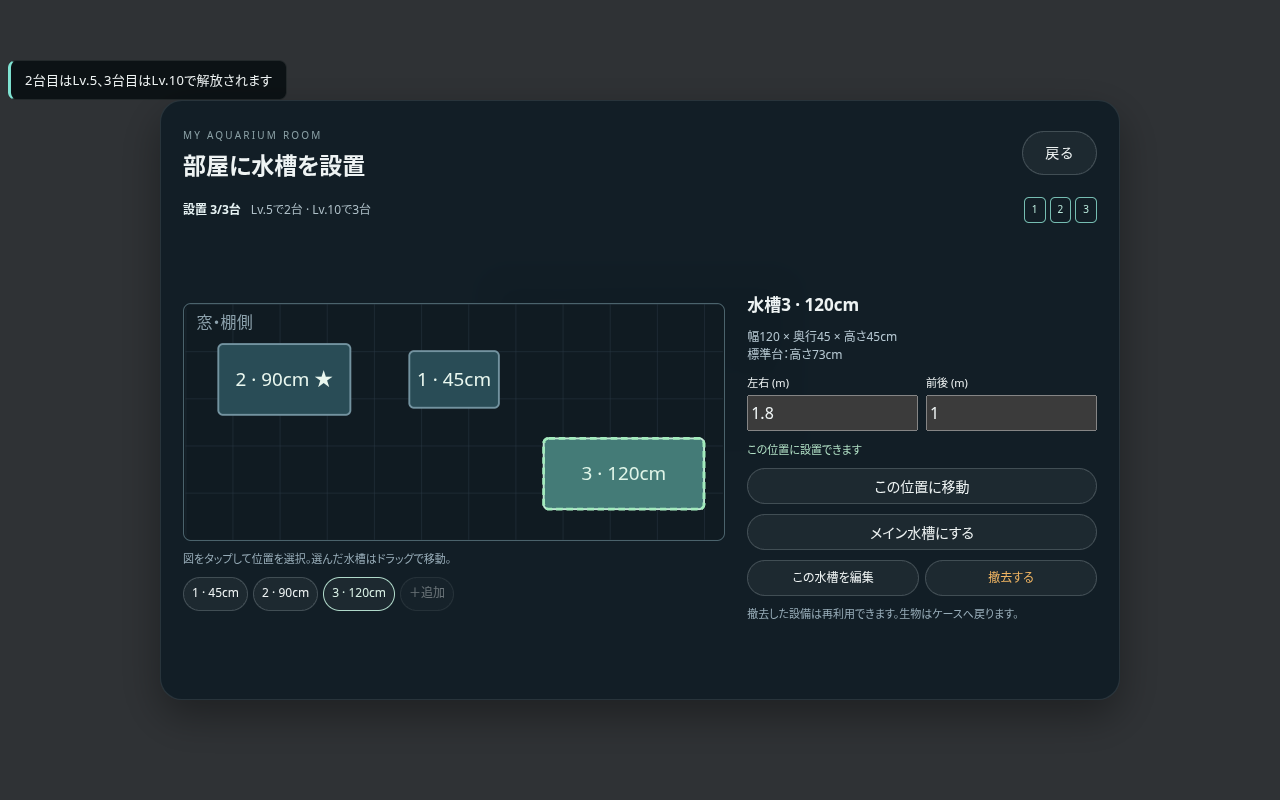
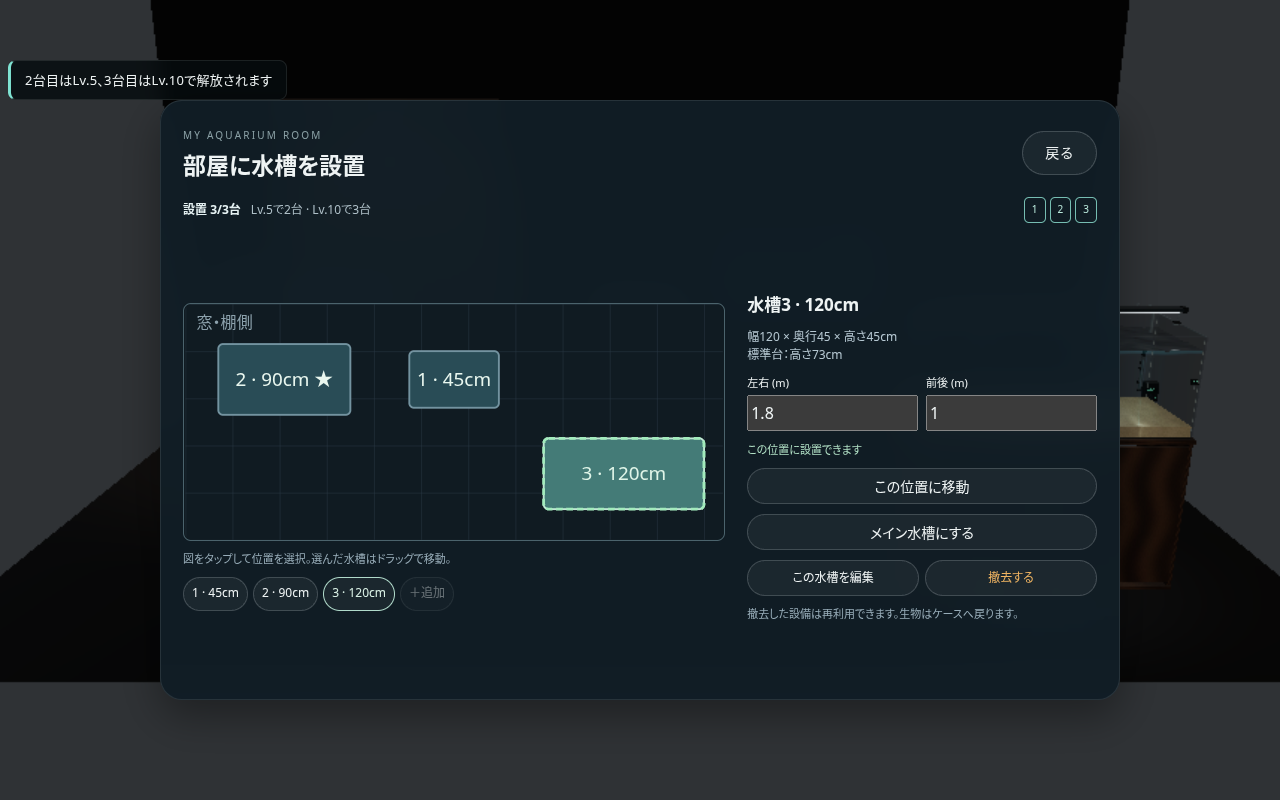
Verify room dragging and compact aquarium editing on mobile

diff --git a/src/ui/tank/room.css b/src/ui/tank/room.css
@@ -48,9 +48,10 @@
 .touch-device .tank-switcher button { width:32px; height:32px; font-size:14px; }
 .touch-device .editor-switcher button { width:26px; height:28px; font-size:12px; }
 .touch-device .editor-switcher > span { font-size:10px; }
-.touch-device .tank-room-controls .btn { font-size:11px; padding:5px 8px; min-height:30px; }
+.touch-device .tank-room-controls { height:30px; min-height:30px; margin-bottom:4px; }
+.touch-device .tank-room-controls .btn { height:30px; font-size:11px; padding:5px 8px; min-height:30px; }
 @media (orientation:portrait) {
-  .touch-device .tank-editor-panel { height:clamp(355px, calc(46dvh + 35px), 455px); }
+  .touch-device .tank-edit .tank-editor-panel:not(.sheet-collapsed) { height:clamp(355px, calc(46dvh + 35px), 455px); }
 }
 @media (max-width:700px) and (orientation:portrait) {
   .room-placement { inset:8px; padding:12px; max-height:650px; gap:8px; }
@@ -86,4 +87,13 @@
   .room-position label { gap:2px; font-size:10px; }.room-position input { min-height:27px; font-size:11px; padding:2px 6px; }
   .room-form .btn { height:28px; min-height:28px; font-size:11px; padding:3px 5px; }.room-validity { font-size:9px; min-height:12px; }
   .room-map-hint,.room-removal-note { font-size:9px; }.room-tank-list button { height:27px; min-height:27px; font-size:10px; padding:3px 5px; }
+}
+@media (orientation:landscape) and (max-height:400px) {
+  .touch-device .tank-editor-panel .equipment-back { height:28px; min-height:28px; }
+  .touch-device .tank-editor-panel .equipment-tabs { margin:2px 0; }
+  .touch-device .tank-editor-panel .equipment-choice { height:58px; min-height:58px; padding:4px; gap:1px; font-size:9px; line-height:1.15; }
+  .touch-device .tank-editor-panel .equipment-choice .equipment-swatch { width:20px; height:16px; flex-basis:16px; }
+  .touch-device .tank-editor-panel .equipment-choice small { font-size:8px; margin:1px 0; }
+  .touch-device .tank-editor-panel .equipment-actions { margin:2px 0; padding:2px 0; }
+  .touch-device .tank-editor-panel .equipment-actions button { height:32px; min-height:32px; }
 }

diff --git a/src/ui/tank/RoomPlacement.tsx b/src/ui/tank/RoomPlacement.tsx
@@ -21,7 +21,7 @@ export function RoomPlacement({ app }: { app: App }) {
     return [Math.round((point.x / 100 + ROOM_LIMITS.minX) * 20) / 20, Math.round((point.y / 100 + ROOM_LIMITS.minZ) * 20) / 20];
   };
   const dimensions = TANK_DIMENSIONS[tank?.size ?? size], ghost = mapPoint(position), footprint = tankFootprint(tank?.size ?? size);
-  const dragPosition = (x: number, y: number): [number, number] => { const p = fromPointer(x, y); return [p[0] - dragOffset.current[0], p[1] - dragOffset.current[1]]; };
+  const dragPosition = (x: number, y: number): [number, number] => { const p = fromPointer(x, y); return [Math.round((p[0] - dragOffset.current[0]) * 20) / 20, Math.round((p[1] - dragOffset.current[1]) * 20) / 20]; };
   return <section class="room-placement glass" aria-label="部屋に水槽を設置">
     <header class="room-heading"><div><span class="eyebrow">MY AQUARIUM ROOM</span><h2>部屋に水槽を設置</h2></div><button class="btn" disabled={busy} onClick={() => app.closeRoomPlacement()}>戻る</button></header>
     <div class="room-capacity"><strong>設置 {room.tanks.length}/{limit}台</strong><span>Lv.5で2台 · Lv.10で3台</span><span class="room-slots">{ROOM_SLOT_LEVELS.map((lv, i) => <span class={app.encyclopedia.level >= lv ? 'unlocked' : ''} key={lv}>{i + 1}{app.encyclopedia.level < lv ? ` 🔒Lv.${lv}` : ''}</span>)}</span></div>

diff --git a/src/app/RoomTanks.ts b/src/app/RoomTanks.ts
@@ -1,4 +1,4 @@
-import { BoxGeometry, DoubleSide, Group, Light, Mesh, MeshStandardMaterial, PlaneGeometry, Vector3, type Camera, type Material } from 'three';
+import { BoxGeometry, DoubleSide, Group, Light, LOD, Mesh, MeshStandardMaterial, PlaneGeometry, Vector3, type Camera, type Material } from 'three';
 import { AquariumEquipment, TANK_DIMENSIONS, type RoomTank } from '../aquarium';
 import { TANK_OFFSET_Y, SAND_H } from './TankScene';
 import { buildTankItem } from './TankLayout';
@@ -50,7 +50,7 @@ export class RoomTanks extends Group {
       }
     }
   }
-  updateLOD(camera: Camera): void { this.rigs.forEach(r => { r.tank.updateLOD(camera); r.stand.updateLOD(camera); for (const d of r.devices.values()) d.updateLOD(camera); }); }
+  updateLOD(camera: Camera): void { this.rigs.forEach(r => r.traverse(o => { if (o instanceof LOD) o.update(camera); })); }
   private clearTanks(): void {
     ++this.generation; this.drivers.forEach(d => d.dispose()); this.drivers = [];
     this.rigs.forEach(r => r.dispose()); this.rigs = [];

diff --git a/src/app/App.ts b/src/app/App.ts
@@ -1718,6 +1718,7 @@ export class App {
     this.camera.aspect = this.renderer.aspect;
     this.camera.updateProjectionMatrix();
     this.tank?.setAspect(this.renderer.aspect);
+    if (this.mode === 'roomPlacement') this.tank.frameRoom();
     this.shop?.setAspect(this.renderer.aspect);
   }
 

diff --git a/docs/aquarium-room/README.md b/docs/aquarium-room/README.md
@@ -12,7 +12,7 @@
 - Lv.1〜4：1台。Lv.5〜9：2台。Lv.10以上：3台。
 - 各サイズの標準水槽・木製台は初期設備として使用可能。色違いの水槽・台は既存の設備ガチャに追加しました。90／120cmの台は中央補強を持ちます。
 - 各水槽は生物・底床・飾り・設備・位置を個別に保存します。生物の実寸は水槽のサイズ変更でも維持します。設備の接続は従来どおりプリセットで自動接続します。
-- 「メイン水槽にする」でホームに戻る際・ゲーム再開時の水槽を指定します。ホーム／水槽編集の1・2・3ボタンは閲覧中の水槽だけを切り替えます。
+- 「メイン水槽にする」で干潟からの帰宅時・ゲーム再開時の水槽を指定します。ホーム／水槽編集の1・2・3ボタンは閲覧中の水槽だけを切り替えます。
 - 60cmを含むすべての水槽を撤去できます。生物はケースに戻し、設備は再利用できます。ケースに空きが足りない場合は撤去しません。0台の部屋も保存でき、ホームの「水槽を設置」から再設置できます。
 - ガチャ設備の所持数は部屋全体で共有します。1個しか持っていない設備を複数水槽に重複設置できません。初期設備は各水槽で利用できます。
 
@@ -35,7 +35,9 @@ npm run smoke:recovery
 
 ブラウザテストはChromiumが必要です。`CHROMIUM_PATH`で実行ファイルを指定できます。CIとPagesの公開前チェックにも部屋のテストを追加しています。
 
-`smoke:room`は60cm撤去とケースへの返却、0台の再読込、Lv.5／10の追加枠、異なる水槽の生物、メイン指定、衝突判定、共有在庫、保存再読込、スマホ縦横4サイズでのボタン到達性を確認します。
+`smoke:room`は60cm撤去とケースへの返却、ケース満員時の撤去拒否、0台の再読込、サイズ変更でも生物の実寸維持、Lv.5／10の追加枠、異なる水槽の生物、メイン指定、衝突判定、配置図のドラッグ、共有在庫、保存再読込、スマホ縦横4サイズでのボタン到達性を確認します。
+
+![部屋全体の水槽](room-overview.png)
 
 ![スマホの配置画面](placement-mobile.png)
 
